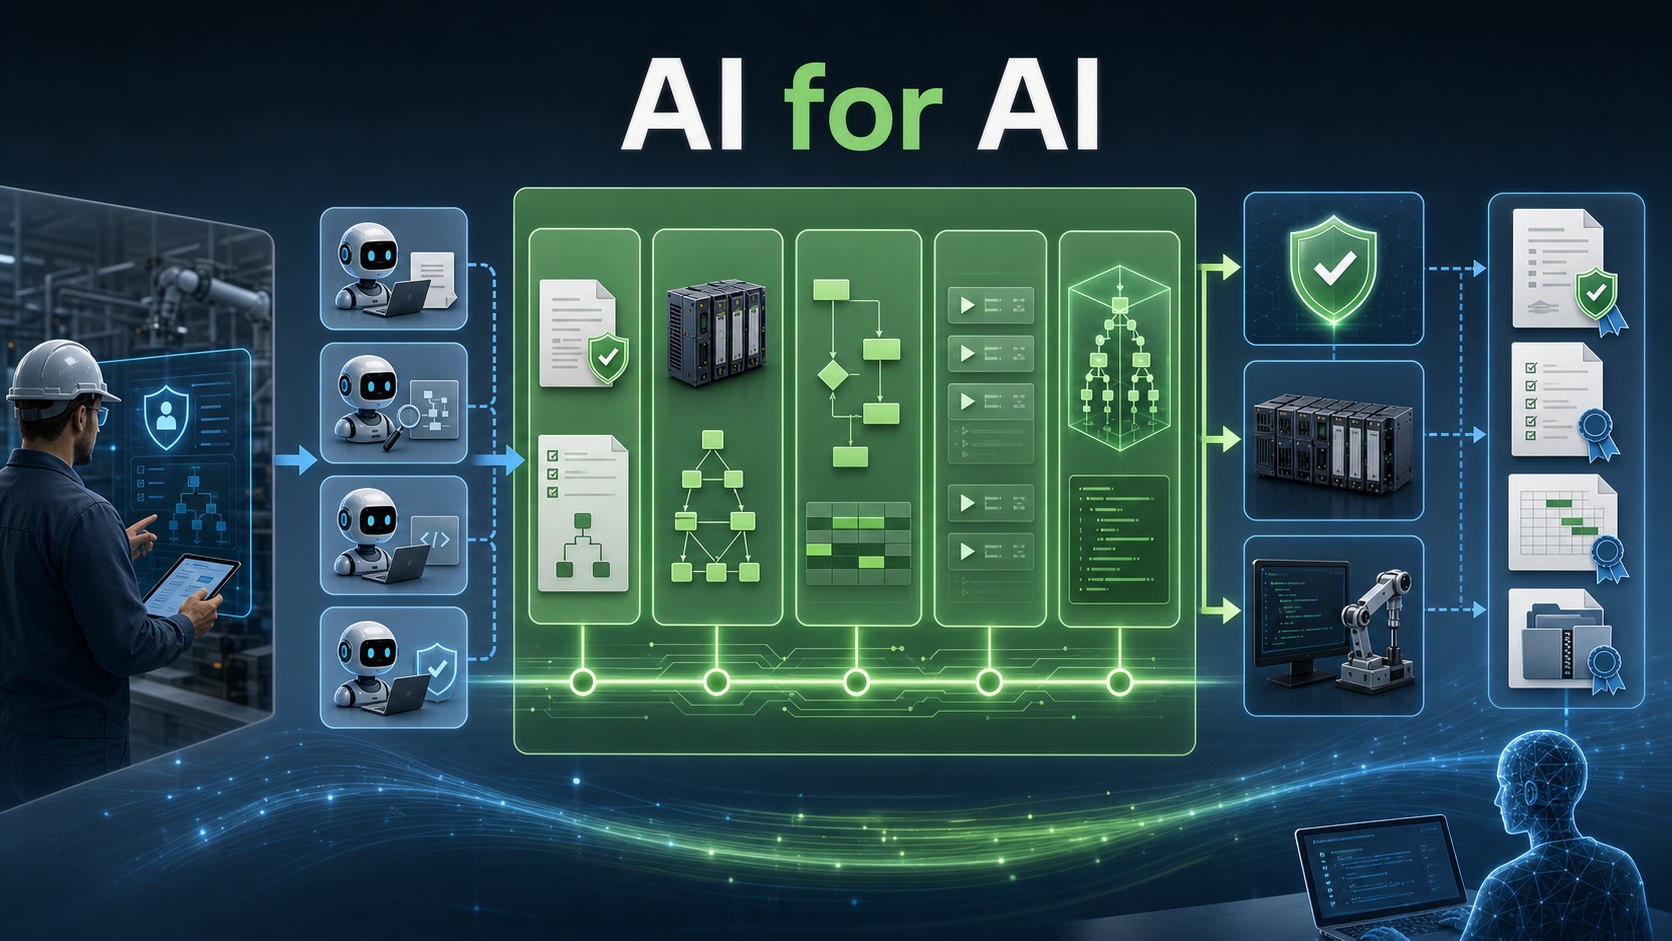
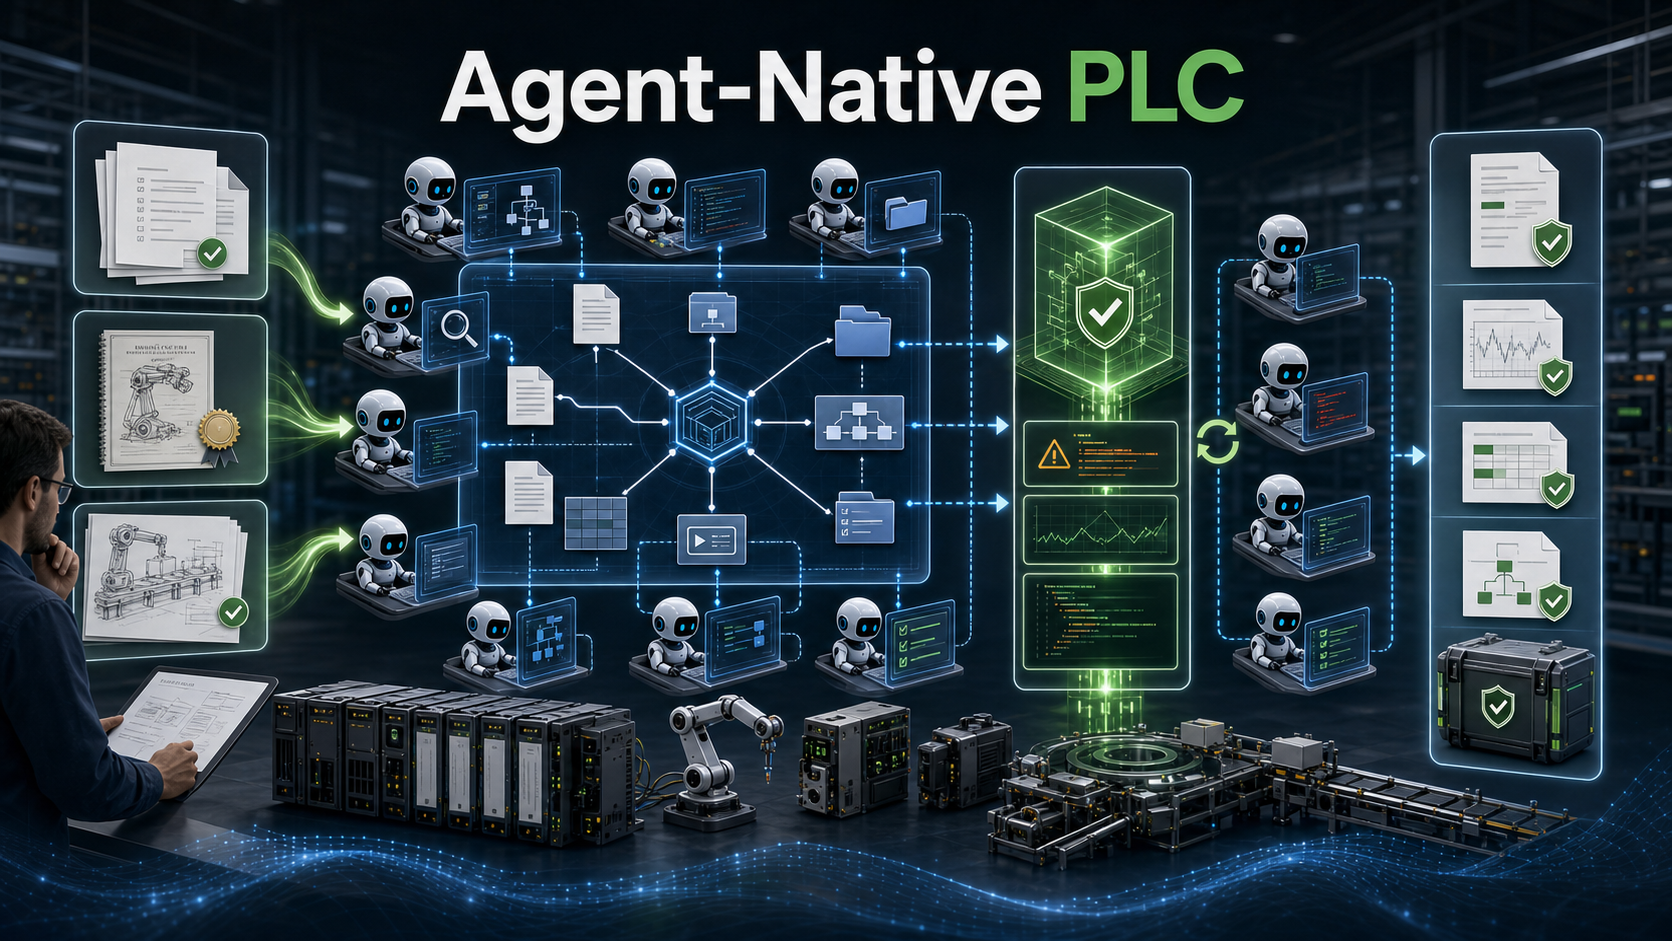
Clarify agent-native AI for AI positioning

diff --git a/README_EN.md b/README_EN.md
@@ -318,21 +318,21 @@ Tick-level timing sampling, p50/p95/p99 statistics, automatic threshold enforcem
 
 ## AI for AI
 
-RustPLC isn't just "AI helps humans write PLC programs." The stronger direction is becoming an **AI-for-AI engineering platform**: one AI can author control semantics, while another AI can verify, critique, repair, optimize, or deliver them from the same structured evidence.
+Traditional PLC editors are designed for humans: the UI, ladder diagrams, variable tables, and debugging flow all optimize for engineers writing code by hand. RustPLC is designed for agents: a human provides requirements, a patent, or design intent, and agents create documents, plan the project, implement serially or in parallel, call the compiler for verification, reason from diagnostics, repair the program, and produce reviewable delivery evidence.
 
 <p align="center">
-  <img src="docs/assets/ai-for-ai-platform.png" alt="AI-for-AI semantic supply chain: human boundaries, multi-agent authoring, RustPLC semantic spine, verification runtime codegen, and evidence artifacts" width="900">
+  <img src="docs/assets/ai-for-ai-platform.png" alt="Agent-native PLC engineering platform: humans provide requirements patents or design intent, agents plan, implement in parallel, verify, repair, and deliver evidence" width="900">
 </p>
 
-This direction is not just a bug-fixing loop. It depends on five engineering contracts:
+That is RustPLC's **AI for AI** direction: not an AI assistant bolted onto a human-centered PLC editor, but a PLC engineering system decomposed into structured tasks that agents can execute, verify, and recover from.
 
-1. Humans define the device boundary, process boundary, safety boundary, and delivery boundary first
-2. AI-authored artifacts must land in `system contract -> topology -> process_model -> task/step`
-3. `process_model` declares schedulable process operations before task/step becomes the executable projection
-4. Verification, runtime bridge, and codegen must consume the same IR
-5. Verification reports, traces, timing reports, and release bundles must be reproducible by another AI or engineer
+1. Input: requirements, patents, device lists, and process intent become `main.system.md`
+2. Planning: agents establish topology, device semantics, workpiece models, front-door contracts, and `process_model`
+3. Implementation: agents can divide the structured project tree and generate task/step, fault, scenario, and config files serially or in parallel
+4. Verification: the compiler converges artifacts into IR and constrains them through verification, runtime bridge, and codegen
+5. Repair: structured diagnostics, reports, traces, and gate results give agents the material needed for further reasoning and repair
 
-The differentiator isn't "yet another generator." RustPLC turns AI output into an engineering evidence chain that is **verifiable, executable, auditable, and reproducible**.
+The differentiator is not "yet another generator." RustPLC is an agent-native PLC engineering system that can take intent and drive it toward something **verifiable, executable, auditable, and reproducible**.
 
 ### MCP Integration
 

diff --git a/README.md b/README.md
@@ -318,21 +318,21 @@ tick 级时序采样，p50/p95/p99 统计，超限自动拦截。发布包包含
 
 ## AI for AI 方向
 
-RustPLC 不只是 "AI 帮人写 PLC 程序"。更强的方向是成为 **AI for AI 工程平台**：一个 AI 生成控制语义，另一个 AI 能基于同一份结构化证据进行验证、批评、修复、优化或交付。
+传统 PLC 编辑器的默认用户是人：界面、梯形图、变量表和调试体验都围绕“让工程师更好地手写代码”设计。RustPLC 的默认用户是 agent：人输入需求、专利或设计意图，agent 负责生成文档、规划工程、串行或并行写代码、调用编译器验证、根据诊断自主推理修复，并输出可审查的交付证据。
 
 <p align="center">
-  <img src="docs/assets/ai-for-ai-platform.png" alt="AI for AI 语义供应链：人类边界、多 AI 协作、RustPLC 语义主干、验证运行时代码生成和证据链" width="900">
+  <img src="docs/assets/ai-for-ai-platform.png" alt="Agent-native PLC 工程平台：人输入需求专利设计意图，agent 规划、并行实现、编译验证、自主修复并输出证据" width="900">
 </p>
 
-这个方向成立的前提不是“循环修 bug”，而是五个工程契约：
+这就是 RustPLC 的 **AI for AI**：不是让 AI 给人类编辑器补一个助手，而是把 PLC 工程拆成 agent 能稳定执行、验证和恢复的结构化任务。
 
-1. 人类先定义设备边界、工艺边界、安全边界和交付边界
-2. AI 生成的产物必须落到 `system contract -> topology -> process_model -> task/step`
-3. `process_model` 先表达可调度工艺操作，task/step 只是它的可执行投影
-4. verification、runtime bridge、codegen 必须同源消费 IR
-5. verification report、trace、timing report、release bundle 必须可被另一个 AI 或工程师复现
+1. 输入层面：支持从需求、专利、设备清单、工艺意图进入 `main.system.md`
+2. 规划层面：先建立拓扑、设备语义、工件模型、front-door 和 `process_model`
+3. 实现层面：agent 可按结构化目录分工，串行或并行生成 task/step、fault、scenario 和配置
+4. 验证层面：编译器把产物收敛到 IR，并用 verification / runtime bridge / codegen 统一约束
+5. 修复层面：结构化诊断、report、trace 和 gate 结果能被 agent 用来继续推理和修复
 
-差异化不是 "又一个生成器"，而是把 AI 输出收敛成 **可验证、可执行、可审计、可复现** 的工程证据链。
+差异化不是 "又一个生成器"，而是一个面向 agent 的 PLC 工程系统：agent 能从意图出发，把项目推进到 **可验证、可执行、可审计、可复现**。
 
 ### MCP 集成
 
